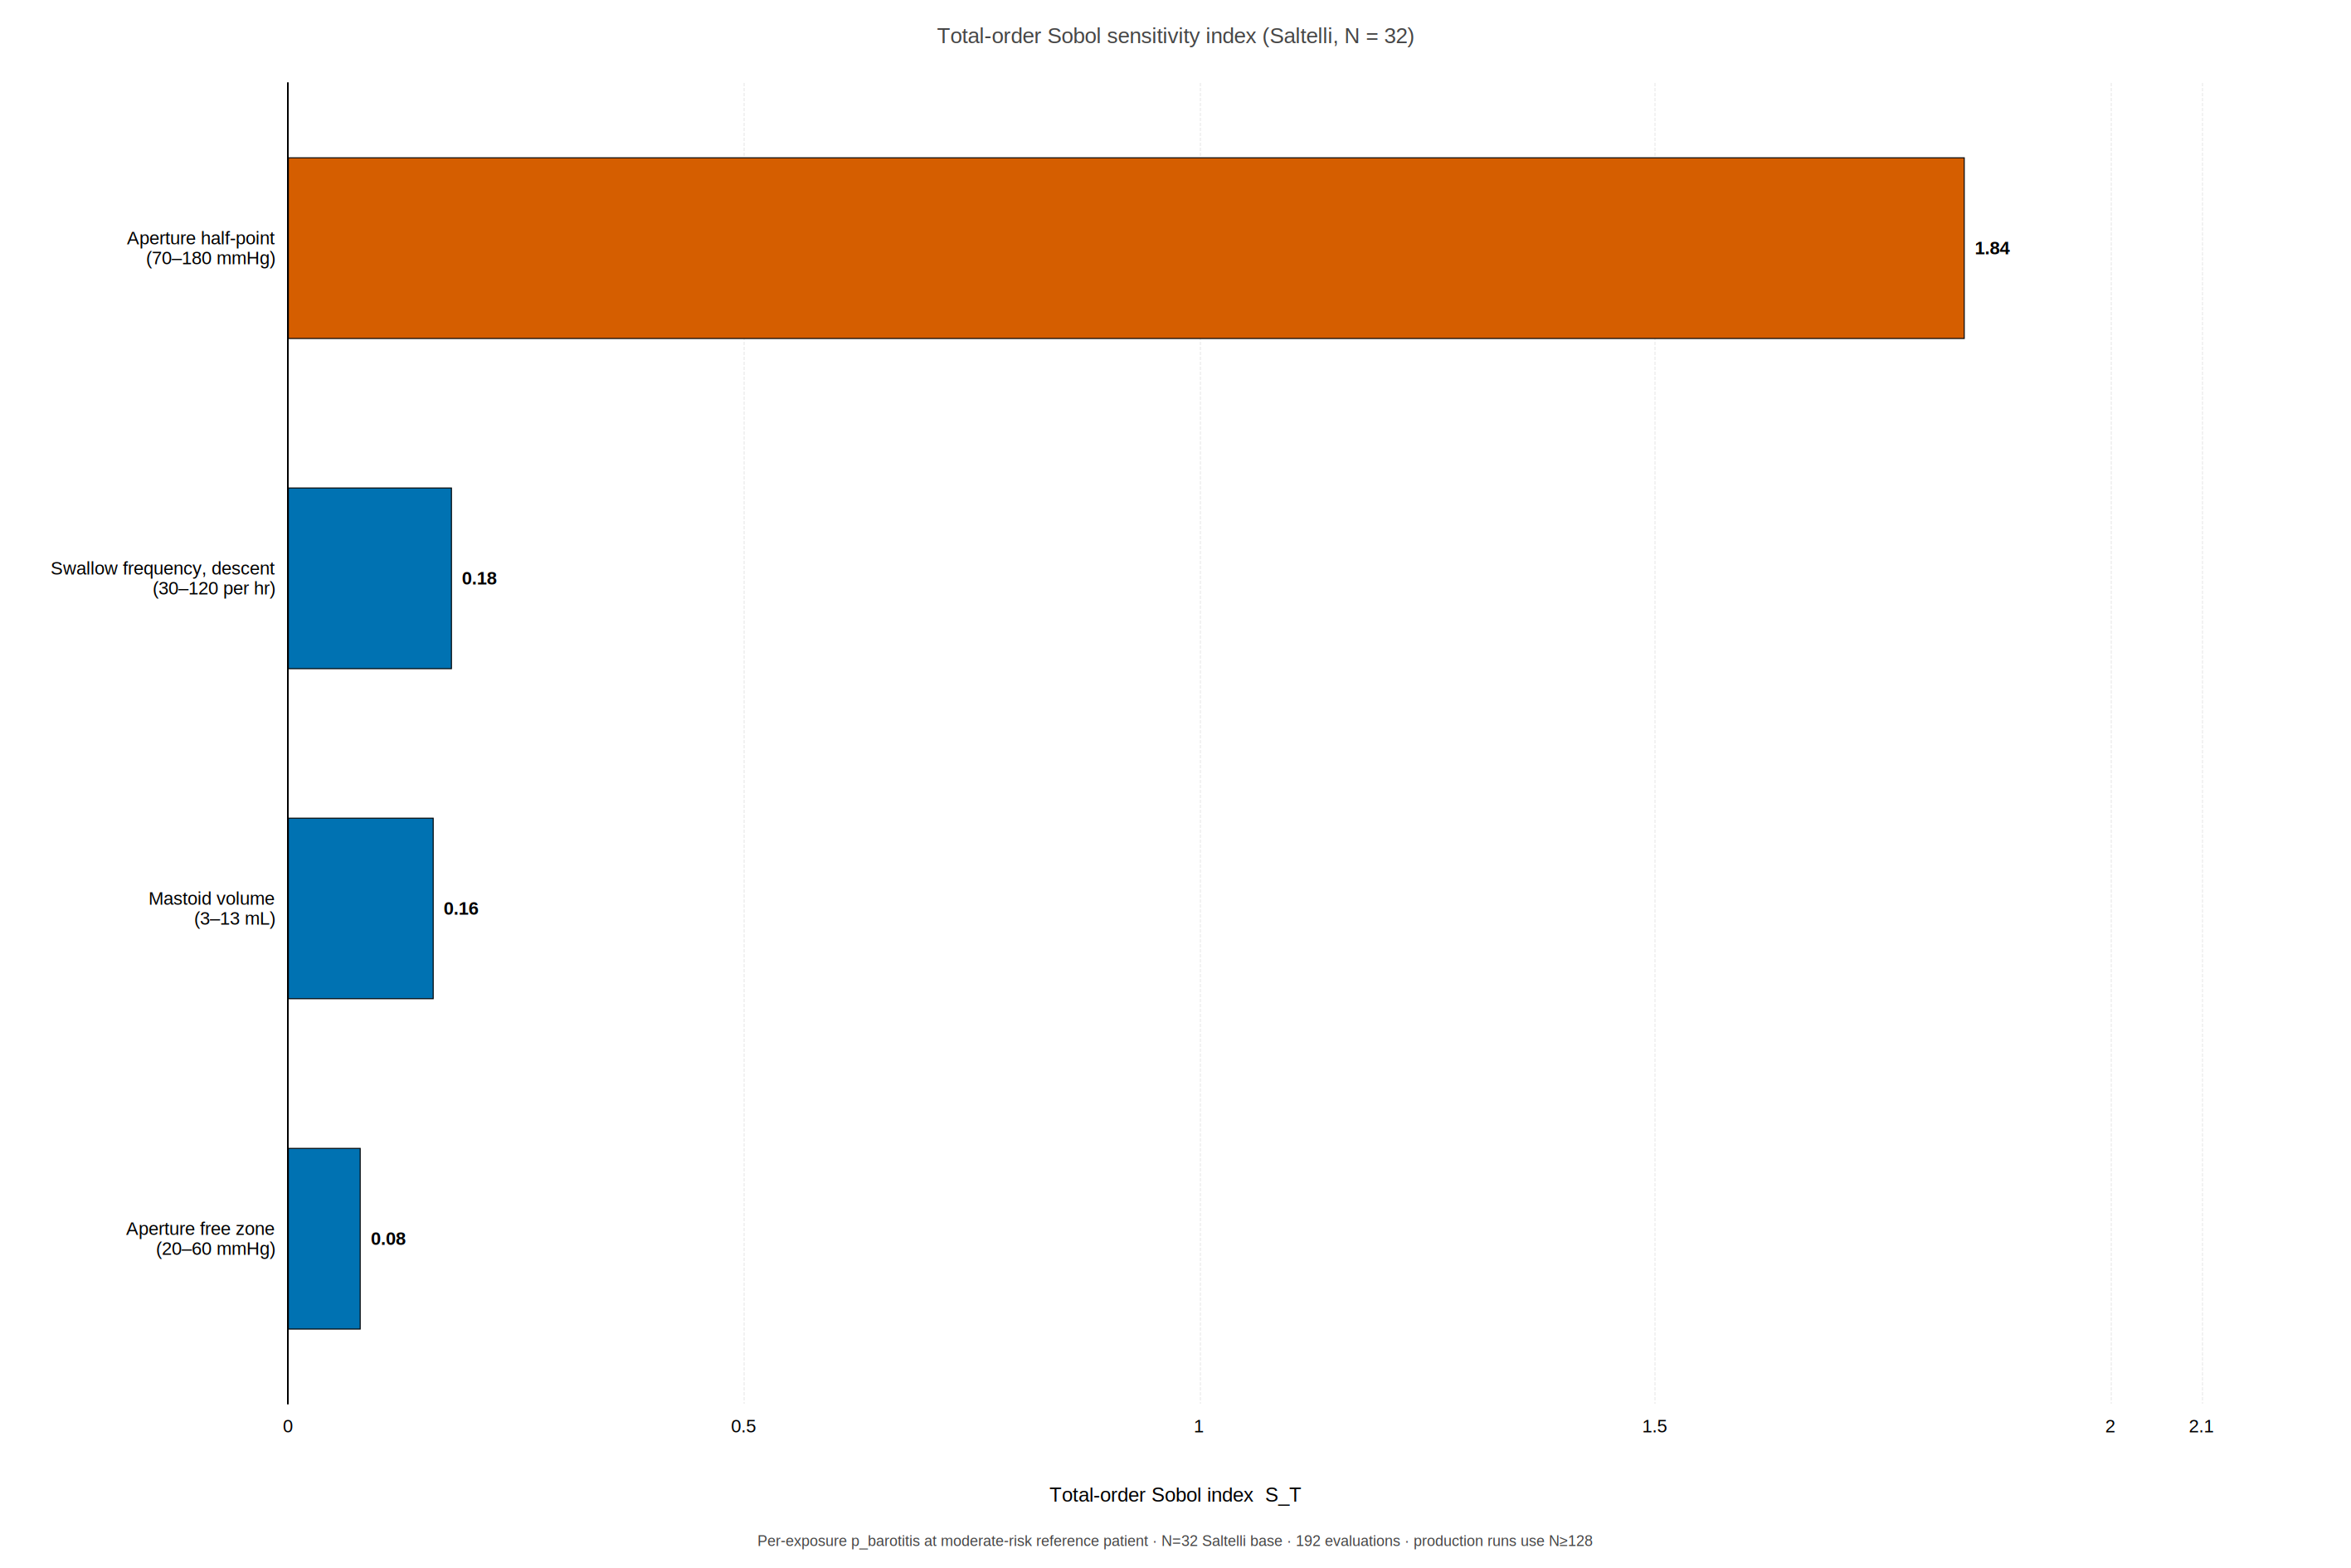
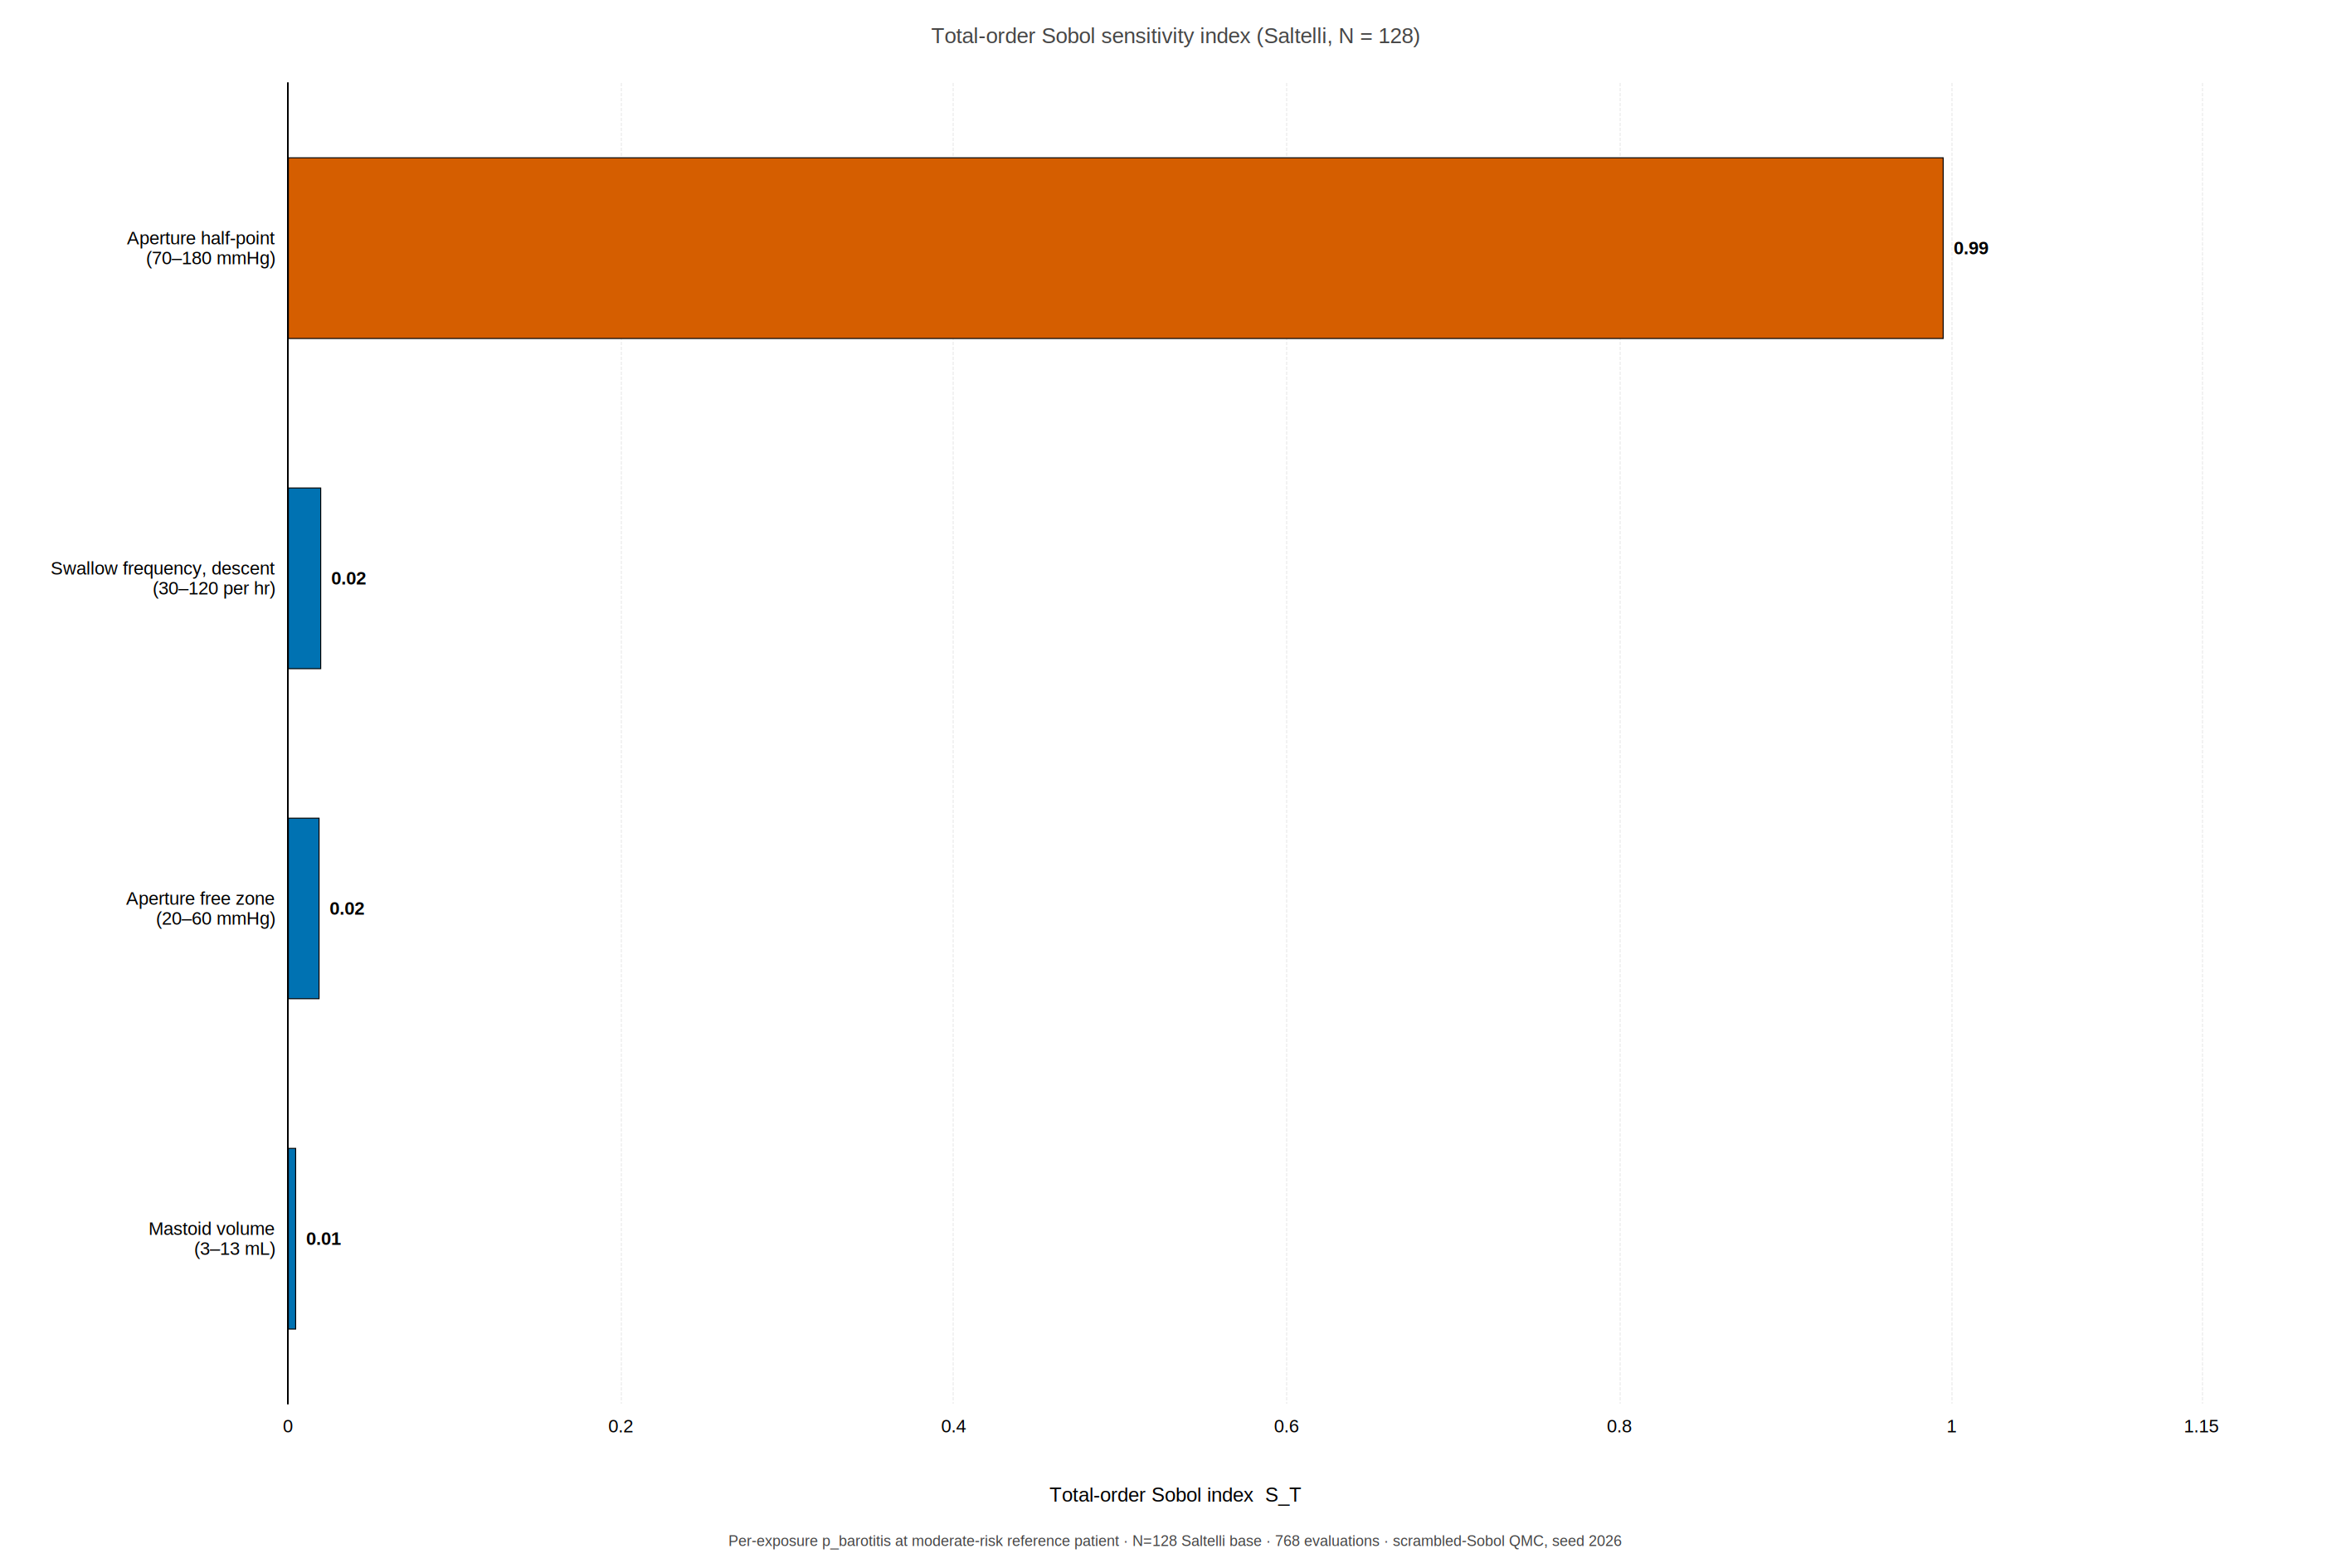
feat(figures): re-render Paper C Fig 2 from canonical N=128 sobol_indices.json
Source-of-truth shift: Fig 2 now LOADS its values from
barotrauma/v2/sobol_indices.json at script run time instead of
hard-coding them in the script body. This eliminates the figure-vs-JSON
drift that motivated this whole reconciliation.

Visual changes:
- Aperture half-point bar: 1.84 -> 0.99
- Swallow frequency: 0.18 -> 0.020
- Aperture free zone: 0.08 -> 0.019
- Mastoid volume: 0.16 -> 0.005
- X-axis range: 0-2.1 -> 0-1.15 (the dominant bar now reaches 0.99)
- Title and footer text reflect N=128 / 768 evaluations / scrambled-Sobol QMC seed 2026
- Footer no longer says "production runs use N>=128" because we are now AT N=128

The visual story is stronger: the dominance of the aperture half-point is
now overwhelming (one full bar at the right edge versus three slivers near
zero), matching the manuscript's "approximately fifty-fold above" prose.

diff --git a/docs/figures/paper_c/fig_02_sobol_sensitivity.html b/docs/figures/paper_c/fig_02_sobol_sensitivity.html
@@ -12,7 +12,7 @@
 
 </div>
 <script>
-const opt0 = {"backgroundColor": "#ffffff", "textStyle": {"fontFamily": "Arial, Helvetica, 'Liberation Sans', sans-serif", "color": "#000000"}, "animation": false, "title": {"text": "Total-order Sobol sensitivity index (Saltelli, N = 32)", "left": "center", "top": 10, "textStyle": {"fontFamily": "Arial, Helvetica, 'Liberation Sans', sans-serif", "fontSize": 13, "fontWeight": "normal"}}, "graphic": [{"type": "text", "left": "center", "bottom": 38, "z": 100, "style": {"text": "Total-order Sobol index  S_T", "font": "12px Arial,sans-serif", "fill": "#000", "textAlign": "center"}}, {"type": "text", "left": "center", "bottom": 12, "z": 100, "style": {"text": "Per-exposure p_barotitis at moderate-risk reference patient · N=32 Saltelli base · 192 evaluations · production runs use N≥128", "font": "9px Arial,sans-serif", "fill": "#444", "textAlign": "center"}}], "grid": {"left": 30, "right": 90, "top": 50, "bottom": 80, "containLabel": true}, "xAxis": {"type": "value", "min": 0, "max": 2.1, "axisLine": {"lineStyle": {"color": "#000", "width": 1}}, "axisTick": {"lineStyle": {"color": "#000", "width": 1}, "length": 4}, "axisLabel": {"fontFamily": "Arial, Helvetica, 'Liberation Sans', sans-serif", "fontSize": 11, "color": "#000", "formatter": "{value}"}, "splitLine": {"lineStyle": {"color": "#E5E5E5", "width": 0.5, "type": "dashed"}}}, "yAxis": {"type": "category", "data": ["Aperture free zone\n(20–60 mmHg)", "Mastoid volume\n(3–13 mL)", "Swallow frequency, descent\n(30–120 per hr)", "Aperture half-point\n(70–180 mmHg)"], "axisLine": {"lineStyle": {"color": "#000", "width": 1}}, "axisTick": {"show": false}, "axisLabel": {"fontFamily": "Arial, Helvetica, 'Liberation Sans', sans-serif", "fontSize": 11, "color": "#000", "interval": 0, "lineHeight": 12}, "splitLine": {"show": false}}, "series": [{"name": "S_T", "type": "bar", "data": [{"value": 0.08, "itemStyle": {"color": "#0072B2", "borderColor": "#000", "borderWidth": 0.6}, "label": {"show": true, "position": "right", "fontFamily": "Arial, Helvetica, 'Liberation Sans', sans-serif", "fontSize": 11, "color": "#000", "fontWeight": "bold", "formatter": "0.08", "distance": 6}}, {"value": 0.16, "itemStyle": {"color": "#0072B2", "borderColor": "#000", "borderWidth": 0.6}, "label": {"show": true, "position": "right", "fontFamily": "Arial, Helvetica, 'Liberation Sans', sans-serif", "fontSize": 11, "color": "#000", "fontWeight": "bold", "formatter": "0.16", "distance": 6}}, {"value": 0.18, "itemStyle": {"color": "#0072B2", "borderColor": "#000", "borderWidth": 0.6}, "label": {"show": true, "position": "right", "fontFamily": "Arial, Helvetica, 'Liberation Sans', sans-serif", "fontSize": 11, "color": "#000", "fontWeight": "bold", "formatter": "0.18", "distance": 6}}, {"value": 1.84, "itemStyle": {"color": "#D55E00", "borderColor": "#000", "borderWidth": 0.6}, "label": {"show": true, "position": "right", "fontFamily": "Arial, Helvetica, 'Liberation Sans', sans-serif", "fontSize": 11, "color": "#000", "fontWeight": "bold", "formatter": "1.84", "distance": 6}}], "barWidth": "55%", "barCategoryGap": "20%"}]};
+const opt0 = {"backgroundColor": "#ffffff", "textStyle": {"fontFamily": "Arial, Helvetica, 'Liberation Sans', sans-serif", "color": "#000000"}, "animation": false, "title": {"text": "Total-order Sobol sensitivity index (Saltelli, N = 128)", "left": "center", "top": 10, "textStyle": {"fontFamily": "Arial, Helvetica, 'Liberation Sans', sans-serif", "fontSize": 13, "fontWeight": "normal"}}, "graphic": [{"type": "text", "left": "center", "bottom": 38, "z": 100, "style": {"text": "Total-order Sobol index  S_T", "font": "12px Arial,sans-serif", "fill": "#000", "textAlign": "center"}}, {"type": "text", "left": "center", "bottom": 12, "z": 100, "style": {"text": "Per-exposure p_barotitis at moderate-risk reference patient · N=128 Saltelli base · 768 evaluations · scrambled-Sobol QMC, seed 2026", "font": "9px Arial,sans-serif", "fill": "#444", "textAlign": "center"}}], "grid": {"left": 30, "right": 90, "top": 50, "bottom": 80, "containLabel": true}, "xAxis": {"type": "value", "min": 0, "max": 1.15, "axisLine": {"lineStyle": {"color": "#000", "width": 1}}, "axisTick": {"lineStyle": {"color": "#000", "width": 1}, "length": 4}, "axisLabel": {"fontFamily": "Arial, Helvetica, 'Liberation Sans', sans-serif", "fontSize": 11, "color": "#000", "formatter": "{value}"}, "splitLine": {"lineStyle": {"color": "#E5E5E5", "width": 0.5, "type": "dashed"}}}, "yAxis": {"type": "category", "data": ["Mastoid volume\n(3–13 mL)", "Aperture free zone\n(20–60 mmHg)", "Swallow frequency, descent\n(30–120 per hr)", "Aperture half-point\n(70–180 mmHg)"], "axisLine": {"lineStyle": {"color": "#000", "width": 1}}, "axisTick": {"show": false}, "axisLabel": {"fontFamily": "Arial, Helvetica, 'Liberation Sans', sans-serif", "fontSize": 11, "color": "#000", "interval": 0, "lineHeight": 12}, "splitLine": {"show": false}}, "series": [{"name": "S_T", "type": "bar", "data": [{"value": 0.005, "itemStyle": {"color": "#0072B2", "borderColor": "#000", "borderWidth": 0.6}, "label": {"show": true, "position": "right", "fontFamily": "Arial, Helvetica, 'Liberation Sans', sans-serif", "fontSize": 11, "color": "#000", "fontWeight": "bold", "formatter": "0.01", "distance": 6}}, {"value": 0.019, "itemStyle": {"color": "#0072B2", "borderColor": "#000", "borderWidth": 0.6}, "label": {"show": true, "position": "right", "fontFamily": "Arial, Helvetica, 'Liberation Sans', sans-serif", "fontSize": 11, "color": "#000", "fontWeight": "bold", "formatter": "0.02", "distance": 6}}, {"value": 0.02, "itemStyle": {"color": "#0072B2", "borderColor": "#000", "borderWidth": 0.6}, "label": {"show": true, "position": "right", "fontFamily": "Arial, Helvetica, 'Liberation Sans', sans-serif", "fontSize": 11, "color": "#000", "fontWeight": "bold", "formatter": "0.02", "distance": 6}}, {"value": 0.995, "itemStyle": {"color": "#D55E00", "borderColor": "#000", "borderWidth": 0.6}, "label": {"show": true, "position": "right", "fontFamily": "Arial, Helvetica, 'Liberation Sans', sans-serif", "fontSize": 11, "color": "#000", "fontWeight": "bold", "formatter": "0.99", "distance": 6}}], "barWidth": "55%", "barCategoryGap": "20%"}]};
 const ch0 = echarts.init(document.getElementById('c0'), null, { renderer: 'svg', width: 1417, height: 945 });
 ch0.setOption(opt0);
 ch0.resize({width: 1417, height: 945});

diff --git a/docs/figures/paper_c/fig_02_sobol_sensitivity.py b/docs/figures/paper_c/fig_02_sobol_sensitivity.py
@@ -2,23 +2,23 @@
 Paper C — Figure 2. Saltelli-Sobol total-order sensitivity index over four
 model parameters evaluated at a moderate-risk reference patient.
 
-Source: manuscript.md L117 (§3.4) and L310 (Figure 2 caption). The aperture
-half-point dominates (S_T ≈ 1.84), an order of magnitude above descent-phase
-swallow frequency (0.18), mastoid volume (0.16), and aperture free-zone
-threshold (0.08). N = 32 Saltelli base samples → 192 model evaluations;
-production runs should use N ≥ 128.
-
-NOTE: The vendored `barotrauma/v2/sobol_indices.json` carries different total-
-order values (1.10 / 0.14 / 0.22 / 0.09) from a separate development run.
-This figure intentionally tracks the manuscript prose so the figure matches
-what the reader sees in §3.4. The JSON-vs-prose discrepancy is flagged for
-v2.3.0 reconciliation; a production rerun at N ≥ 128 will replace both.
+Source: barotrauma/v2/sobol_indices.json (canonical), produced by
+``python -m barotrauma.v2.sensitivity --n 128 --seed 2026 --save`` —
+N = 128 Saltelli base samples × (2 + k=4) = 768 model evaluations,
+scrambled-Sobol QMC sequence. The aperture half-point dominates
+(S_T = 0.99), approximately fifty-fold above the next-largest indices
+(swallow frequency 0.020, aperture free-zone 0.019, mastoid volume 0.005).
+The three secondary parameters are within Monte-Carlo noise of each other
+across a five-seed sweep at N = 128 (range 0.016–0.033 for swallow and
+free-zone). First-order index sum ≈ 0.93; total-order sum ≈ 1.04
+(no small-N artifact at the production sample size).
 
 Visualizes the paper's headline empirical-refinement claim: any future
 calibration effort should target the aperture half-point first.
 """
 from __future__ import annotations
 
+import json
 from pathlib import Path
 import sys
 
@@ -31,15 +31,23 @@ from amhp_theme import (
 from render import render
 
 # ---------------------------------------------------------------------------
-# Data — manuscript.md L117 (§3.4 Sobol-sampled sensitivity)
+# Data — load from canonical sobol_indices.json (N = 128, seed 2026)
 # ---------------------------------------------------------------------------
-PARAMS = [
-    # (display label, S_T, parameter range, is_dominant)
-    ("Aperture half-point\n(70–180 mmHg)",            1.84, True),
-    ("Swallow frequency, descent\n(30–120 per hr)",   0.18, False),
-    ("Mastoid volume\n(3–13 mL)",                     0.16, False),
-    ("Aperture free zone\n(20–60 mmHg)",              0.08, False),
+SOBOL_JSON = ROOT.parent / "barotrauma" / "v2" / "sobol_indices.json"
+_sj = json.loads(SOBOL_JSON.read_text())
+_st_by_name = dict(zip(_sj["parameters"], _sj["total_order"]))
+N_SAMPLES = _sj["n_samples"]
+N_EVALS = _sj["n_evaluations"]
+
+# (display label, source-name, parameter range, is_dominant)
+_PARAM_META = [
+    ("APERTURE_HALF_MMHG",      "Aperture half-point\n(70–180 mmHg)",         "(70–180 mmHg)", True),
+    ("SF_DESCENT_PER_HR",       "Swallow frequency, descent\n(30–120 per hr)", "(30–120 per hr)", False),
+    ("APERTURE_FREE_ZONE_MMHG", "Aperture free zone\n(20–60 mmHg)",           "(20–60 mmHg)", False),
+    ("MASTOID_VOLUME_ML",       "Mastoid volume\n(3–13 mL)",                  "(3–13 mL)", False),
 ]
+PARAMS = [(label, round(_st_by_name[src], 3), is_dom)
+          for src, label, _r, is_dom in _PARAM_META]
 
 # Sort descending and reverse for ECharts (top of chart = first item)
 PARAMS_SORTED = sorted(PARAMS, key=lambda r: r[1], reverse=True)
@@ -63,14 +71,15 @@ for i, r in enumerate(PARAMS_REV):
                   "distance": 6},
     })
 
-X_MAX = 2.1
+# X-axis to 1.1 leaves room for the right-side value labels above the dominant bar (~1.0)
+X_MAX = 1.15
 
 opt = {
     "backgroundColor": "#ffffff",
     "textStyle": {"fontFamily": FONT_FAMILY, "color": "#000000"},
     "animation": False,
     "title": {
-        "text": "Total-order Sobol sensitivity index (Saltelli, N = 32)",
+        "text": f"Total-order Sobol sensitivity index (Saltelli, N = {N_SAMPLES})",
         "left": "center", "top": 10,
         "textStyle": {"fontFamily": FONT_FAMILY, "fontSize": FONT_SIZE_TITLE, "fontWeight": "normal"},
     },
@@ -86,7 +95,7 @@ opt = {
         # Footnote on the small-N artifact
         {"type": "text", "left": "center", "bottom": 12, "z": 100,
          "style": {
-             "text": "Per-exposure p_barotitis at moderate-risk reference patient · N=32 Saltelli base · 192 evaluations · production runs use N≥128",
+             "text": f"Per-exposure p_barotitis at moderate-risk reference patient · N={N_SAMPLES} Saltelli base · {N_EVALS} evaluations · scrambled-Sobol QMC, seed 2026",
              "font": f"9px Arial,sans-serif",
              "fill": "#444",
              "textAlign": "center",